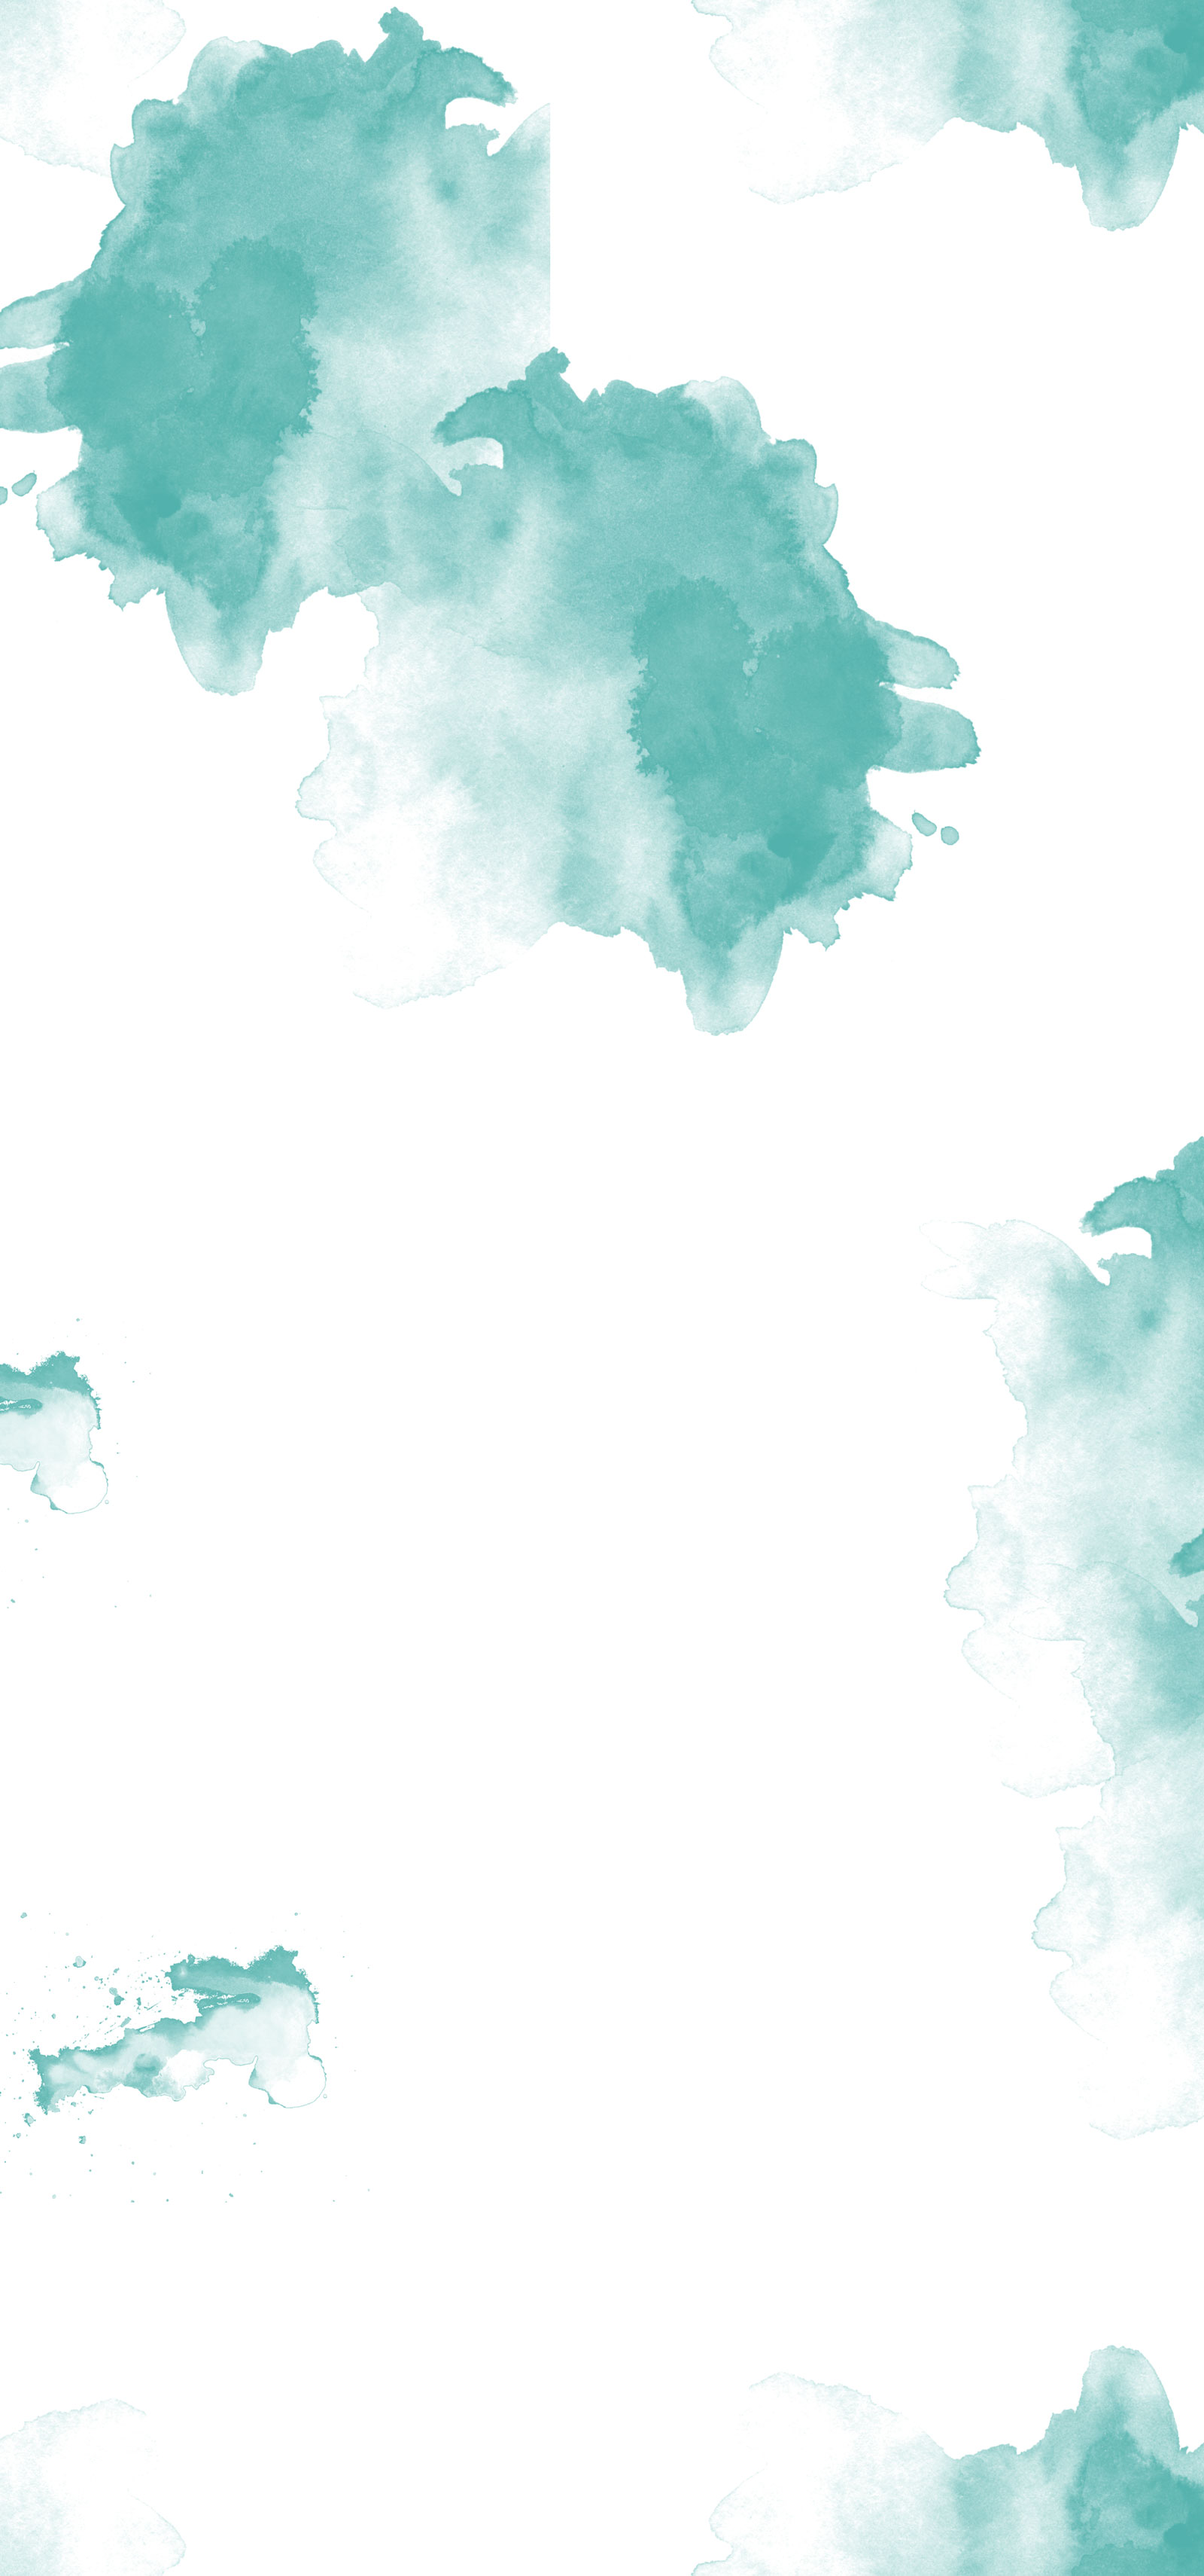
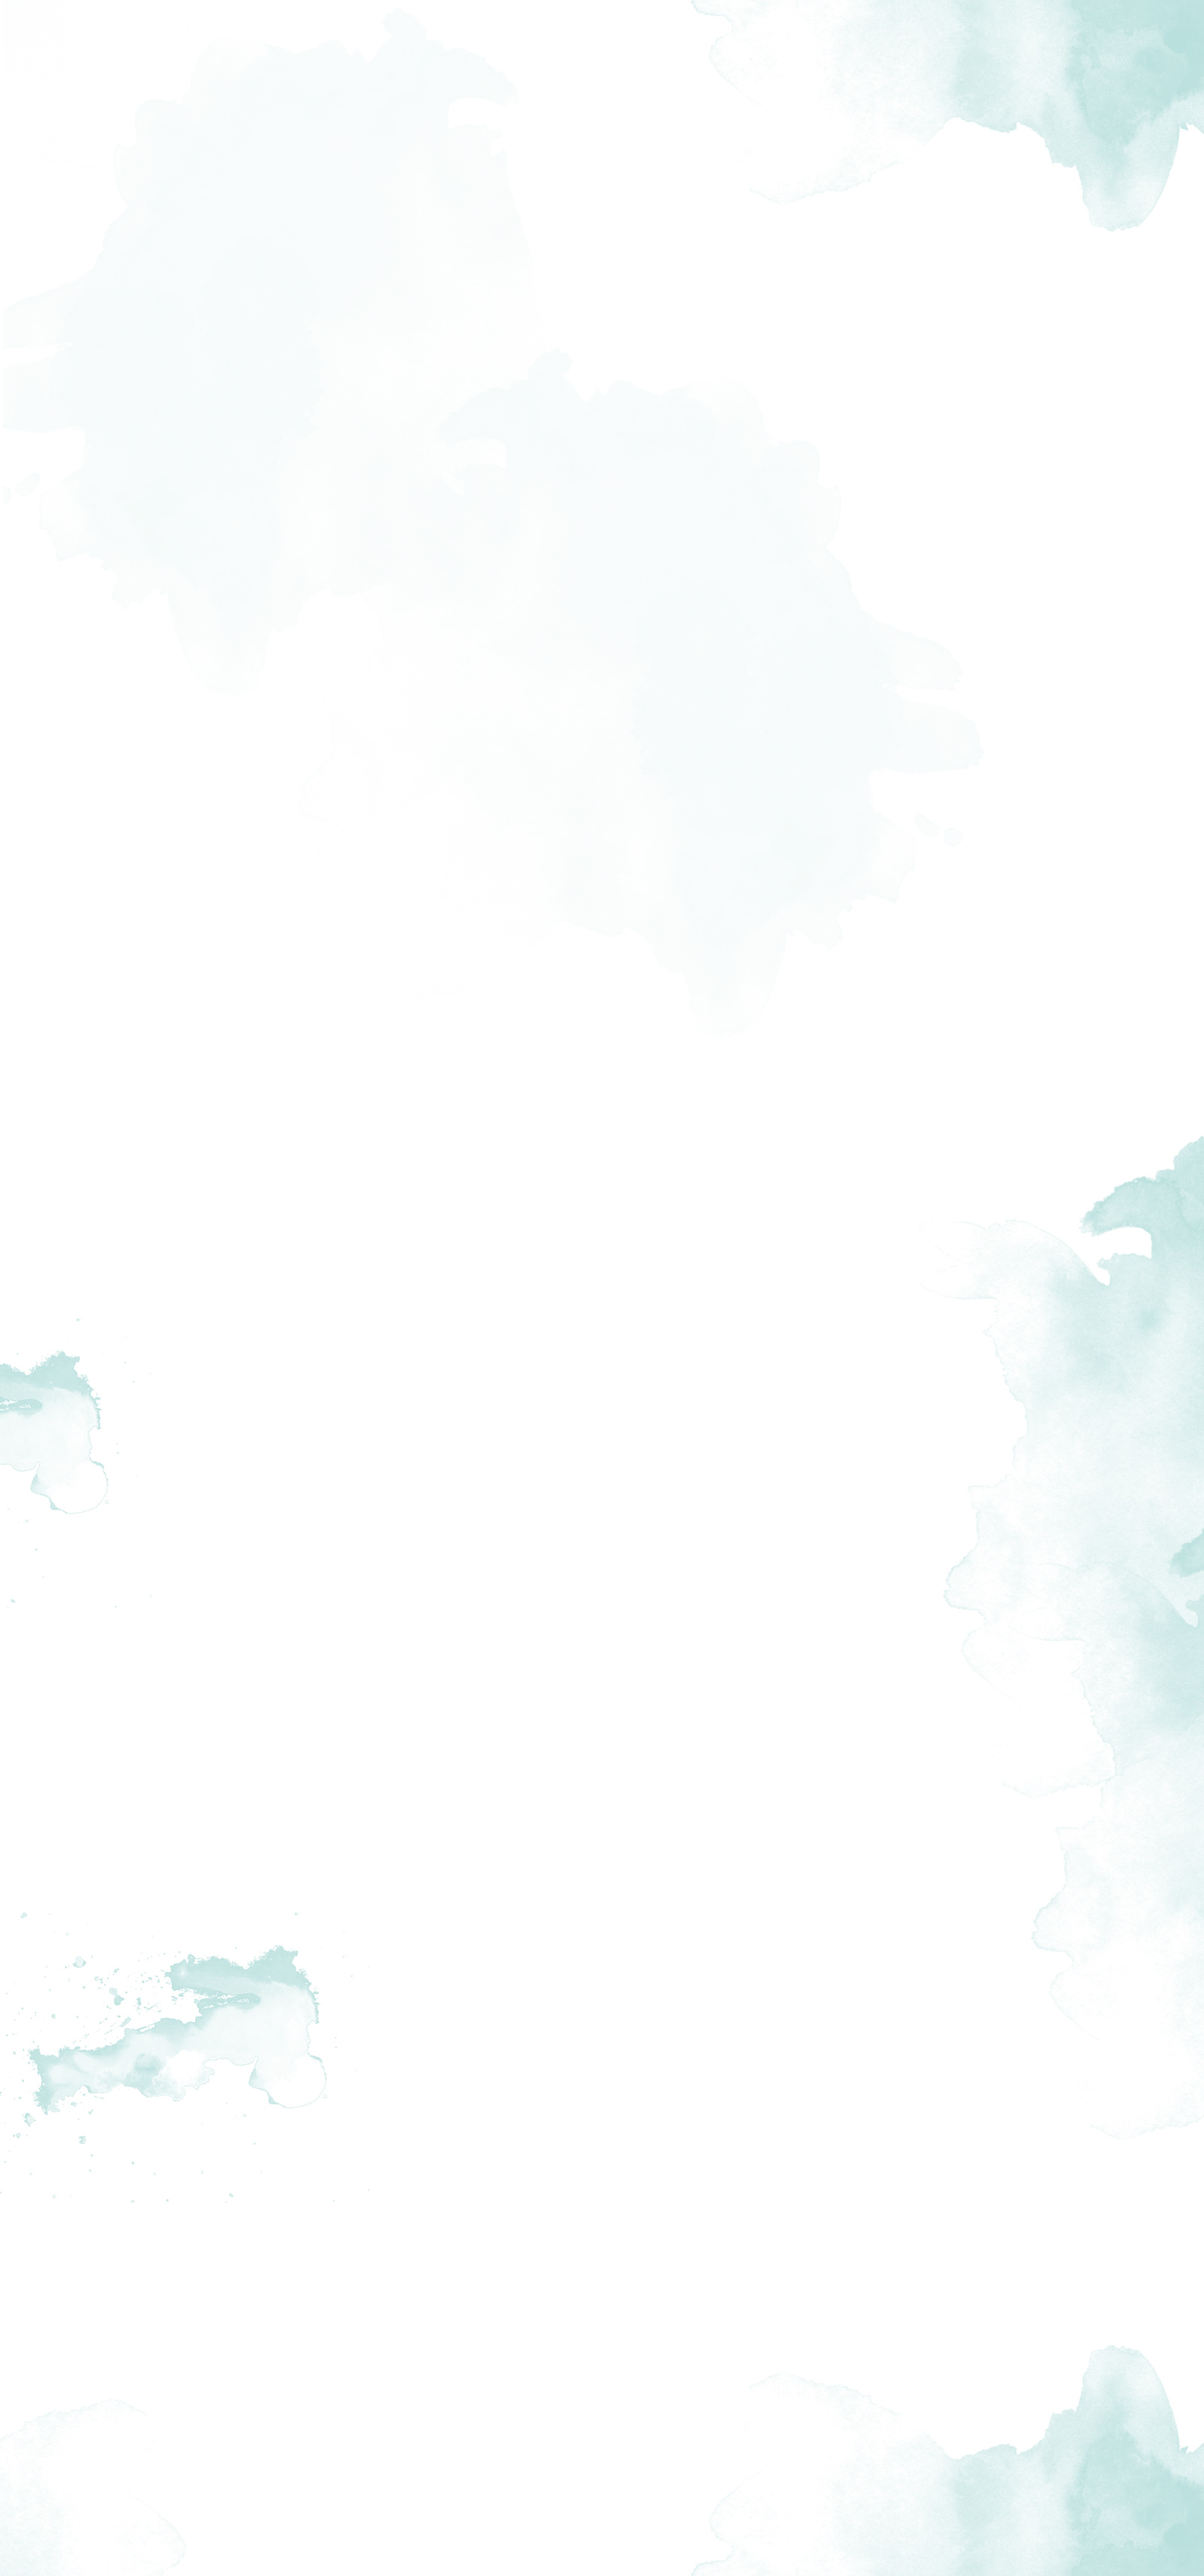
Done Yoga full

diff --git a/views/content/home.html b/views/content/home.html
@@ -10,6 +10,7 @@
                <div class="yoga-detail">
                 <h2 class="name text-up head-size font-jura">{{slide.name}}</h2>
                 <p class="descp font-small ">{{slide.descp}}</p>
+                <button class="btn btn-green">Know More</button>
               </div>
             </div>
 
@@ -27,6 +28,7 @@
                <div class="yoga-detail">
                 <h2 class="name text-up head-size font-jura">{{slides.name}}</h2>
                 <p class="descp font-small ">{{slides.descp}}</p>
+                <button class="btn btn-green">Know More</button>
               </div>
             </div>
           </li>
@@ -43,6 +45,7 @@
                <div class="yoga-detail">
                 <h2 class="name text-up head-size font-jura">{{slidess.name}}</h2>
                 <p class="descp font-small ">{{slidess.descp}}</p>
+                <button class="btn btn-green">Know More</button>
               </div>
             </div>
 
@@ -84,7 +87,7 @@
       <div class="teachers">
         <div class="row-flex">
           <div class="col-flex">
-            <img src="img/slider.png" class="img-responsive" alt="">
+            <img src="img/yoga-stlying.jpg" class="img-responsive" alt="">
           </div>
           <div class="col-flex">
             <div class="trending text-center">
@@ -100,7 +103,7 @@
       <div class="yoga-teachers text-center  bg-slider">
           <img src="img/bg2.png" class="img-responsive">
           <div class="yoga-detail">
-        <h2 class="text-up head-size font-jura">KNOW OUR TEACHERS</h2>
+        <h2 class="text-up head-size dark font-jura">KNOW OUR TEACHERS</h2>
         <span>Sed ut perspiciatis unde omnis</span>
         <div class="teachers-names">
           <div class="expert-teacher">
@@ -127,7 +130,7 @@
     </div>
   </div>
 </section>
-<section class="quote">
+<!-- <section class="quote">
   <div class="row-flex">
     <div class="col-flex">
       <div class="quote-slider">
@@ -144,7 +147,7 @@
       </div>
     </div>
   </div>
-</section>
+</section> -->
 <section class="food-section">
   <div class="row-flex">
     <div class="col-flex">
@@ -210,7 +213,7 @@
     <div class="yoga-teachers text-center  bg-slider">
         <img src="img/bg2.png" class="img-responsive">
         <div class="yoga-detail">
-      <h2 class="text-up head-size font-jura">healthy restaurants you like</h2>
+      <h2 class="text-up head-size dark font-jura">healthy restaurants you like</h2>
       <span>Sed ut perspiciatis unde omnis</span>
       <div class="teachers-names">
         <div class="expert-teacher">

diff --git a/sass/main.scss b/sass/main.scss
@@ -45,6 +45,9 @@ $font-family-serif: "Rubik",serif !default;
 body {
     padding-top: 98px;
     font-family: $font-family-sans-serif;
+    background-image: url("../img/main.jpg");
+    background-repeat: repeat;
+    background-size: 100% auto;
 }
 .btn,
 button {
@@ -120,7 +123,7 @@ a {
 // wire frame css
 // header
 nav {
-    background: url('../img/header-bg.png') no-repeat #fff;
+    // background: url('../img/header-bg.png') no-repeat #fff;
 }
 .green {
     color: $green;
@@ -182,6 +185,14 @@ nav {
         }
     }
 }
+.food-slider {
+  .flex-control-paging li a {
+    background: rgba(255, 255, 255, 0.5);
+    &.flex-active {
+      background: rgba(255, 255, 255, 0.9);
+    }
+  }
+}
 .sign {
     .btn {
         &:hover {
@@ -233,7 +244,6 @@ nav {
     background-color: #f9f9f9;
 }
 .yoga-teachers {
-    background-color: #f5f5f5;
 }
 .food-section {
     // background-color: #F2F2F2;
@@ -443,7 +453,6 @@ span {
     }
 }
 .teachers {
-    border-bottom: 2px solid #000;
     span {
         font-size: 18px;
     }
@@ -563,7 +572,7 @@ span {
     .img {
         height: 75px;
         width: 75px;
-        background-color: #ccc;
+        background-color: rgba(81, 177, 172, 0.2);
         border-radius: 100%;
         margin: 0 auto;
     }
@@ -583,7 +592,7 @@ span {
     .img {
         height: 75px;
         width: 75px;
-        background-color: #fff;
+        background-color: rgba(81, 177, 172, 0.2);
         border-radius: 100%;
         margin: 0 auto;
     }
@@ -1372,7 +1381,6 @@ span {
     }
 }
 .subscribtion {
-    background-color: #ccc;
     .subscribtion-text {
         li {
           color: #333;
@@ -1524,9 +1532,9 @@ span {
     background-image: url("../img/love.png");
 }
 .bg {
-    background-image: url("../img/main.jpg");
-    background-repeat: repeat;
-    background-position: 100% 100%;
+    // background-image: url("../img/main.jpg");
+    // background-repeat: repeat;
+    // background-position: 100% 100%;
 }
 .larg-map {
     iframe {
@@ -1835,6 +1843,9 @@ footer h4 {
   left: 0;
   right: 0;
   bottom: 0;
+}
+.dark {
+  color: black !important;
 }
 @import "fancybox-override";
 @import "ruchira";

diff --git a/js/controllers.js b/js/controllers.js
@@ -88,17 +88,17 @@ angular.module('phonecatControllers', ['templateservicemod', 'navigationservice'
 
   $scope.yogaclasses = [
     {
-      img:"img/s3.png",
+      img:"img/yoga-classes.jpg",
       head: "yoga classes",
       descp: "Sed ut perspiciatis unde omnis iste natus error sit."
     },
     {
-        img:"img/s3.png",
+        img:"img/yoga-classes.jpg",
       head: "yoga classes",
       descp: "Sed ut perspiciatis unde omnis iste natus error sit."
     },
     {
-        img:"img/s3.png",
+        img:"img/yoga-classes.jpg",
       head: "yoga classes",
       descp: "Sed ut perspiciatis unde omnis iste natus error sit."
     }
@@ -149,17 +149,17 @@ $scope.healthSlider = [
 
   $scope.foodSlider = [
     {
-      img:"img/Rectangle.png",
+      img:"img/r6.jpg",
       head: "Food",
       descp: "Sed ut perspiciatis unde omnis iste natus error sit voluptat."
     },
     {
-      img:"img/Rectangle.png",
+      img:"img/r6.jpg",
       head: "Food",
       descp: "Sed ut perspiciatis unde omnis iste natus error sit voluptat."
     },
     {
-      img:"img/Rectangle.png",
+      img:"img/r6.jpg",
       head: "Food",
       descp: "Sed ut perspiciatis unde omnis iste natus error sit voluptat."
     }
